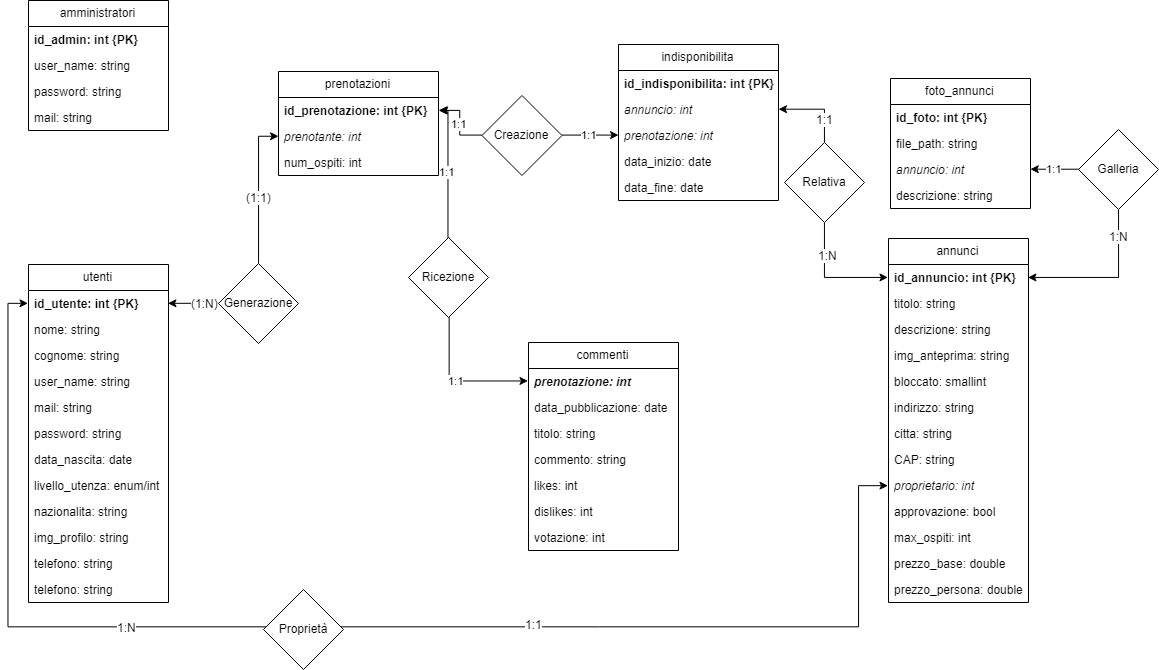
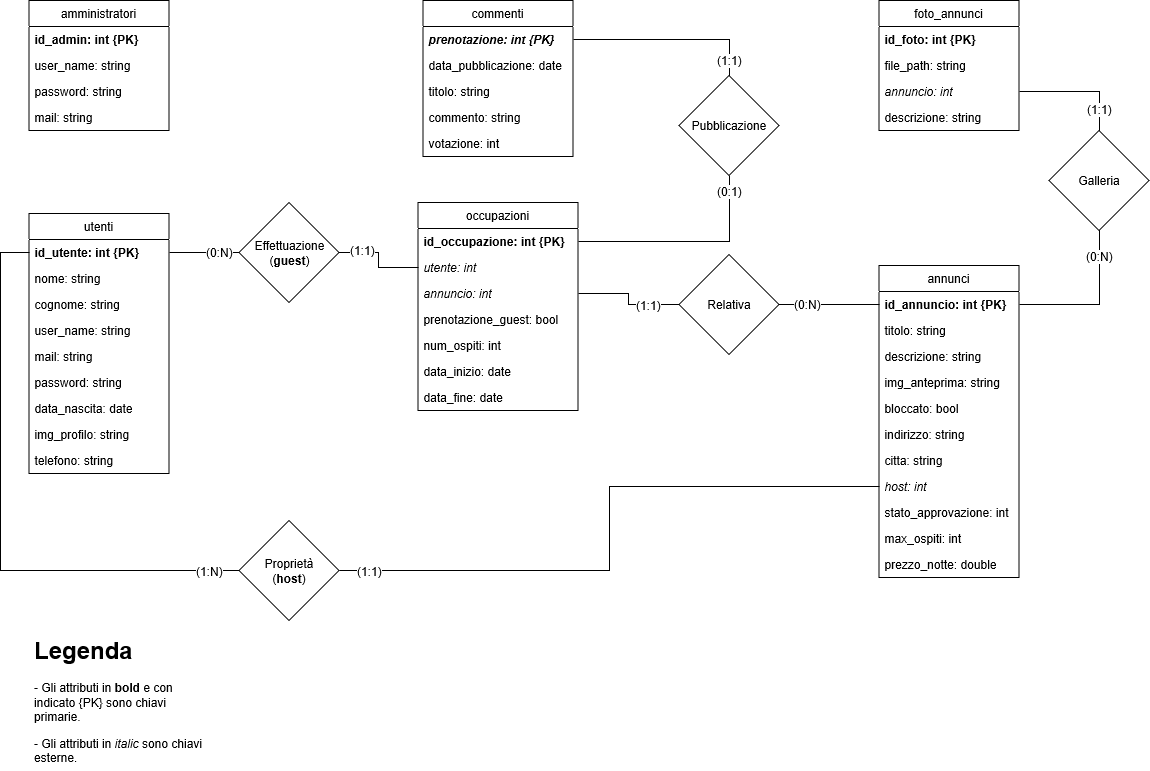
#2 #6 #12 effettuate le modifiche richieste per la semplificazione delle prenotazioni, ora occupazioni

diff --git a/analisirequisiti.md b/analisirequisiti.md
@@ -4,27 +4,25 @@ Termini utilizzati nella documentazione, nei commenti, nel codice sorgente e nel
 - **Casa**: unità immobiliare che viene affittata, attraverso la prenotazione di un annuncio. _Sinonimo_: appartamento.
 - **Utente**: soggetto che utilizza il portale. C'è una prima distinzione fra utente generico e utente loggato:
     - l'utente generico naviga nel portale, consultando ciò che gli è concesso, e non è in possesso di credenziali per l'accesso,
-    - l'utente loggato naviga nel portale in libertà (nei limiti delle operazioni che gli sono concesse, descritte successivamente), è in possesso di credenziali per l'accesso che si è autonomamente creato nel processo di registrazione al portale.
+    - l'utente loggato naviga nel portale in libertà (nei limiti delle operazioni che gli sono concesse, descritte successivamente) ed è in possesso di credenziali per l'accesso che si è autonomamente creato nel processo di registrazione al portale.
     
     L'utente loggato a sua volta viene suddiviso in due categorie: host (proprietario di una casa che rende affittabile attraverso un annuncio) e guest (persona che affitta una casa, prenotandola attraverso il relativo annuncio). Queste due categorie sono solo logiche e non fisiche, infatti vi è un solo processo di registrazione (e quindi un'unica utenza) per entrambi i ruoli.
     Di conseguenza, si parla di utente (loggato):
     - host, quando ha pubblicato almeno un annuncio,
     - guest, sempre (tutti gli utenti registrati hanno la possibilità di affittare).
 
-- **Annuncio**: un annuncio riguarda la disponibilità di una singola casa (o appartament) e ne descrive tutte le caratteristiche (indirizzo, città, numero massimo di ospiti, ecc.). Un annuncio riguarda una e una sola casa.
-- **Amministratore**: soggetto facente parte del personale che gestisce il sito. Non è considerato un utente (dal punto di vista della struttura del database è un'entità distinta). Ha compiti di gestione e moderazione all'interno del portale.
-- **Indisponibilità**: un periodo di indisponibilità definisce l'intervallo temporale in cui un annuncio è reso indisponibile, ovvero non prenotabile. Riguarda un unico annuncio e un unico periodo temporale, definito da una data di inizio e una data di fine (in cui la data di inizio precede la data di fine). In un tale periodo l'annuncio non può avere più periodi di indisponibilità sovrapposti.
-- **Commento**: recensione dell'utente sul suo soggiorno presso una casa di un preciso annuncio. Un utente può lasciare al massimo un commento sull'annuncio, a partire dal giorno successivo all'ultimo giorno del suo soggiorno (corrispondente al periodo di indisponibilità relativo alla prenotazione effettuata dall'utente).
-- **Foto**: foto relativa ad un annuncio, presente nella galleria collegata a quest'ultimo. La foto di anteprima dell'annuncio non rientra in questa categoria, in quanto parte dell'entità Annuncio.
+- **Annuncio**: un annuncio riguarda la disponibilità di una singola casa (o appartamento) e ne descrive tutte le caratteristiche (indirizzo, città, numero massimo di ospiti, ecc.). Un annuncio riguarda una e una sola casa.
+- **Amministratore**: soggetto facente parte del personale che gestisce il portale. Non è considerato un utente (dal punto di vista della struttura del database è un'entità distinta). Ha compiti di gestione e moderazione all'interno del portale.
+- **Occupazione**: un'occupazione rappresenta principalmente un periodo temporale in cui un annuncio non è disponibile, ovvero non prenotabile. Se è generata da un host allora è un periodo in cui l'annuncio non è disponibile; se è generata da un guest allora è a tutti gli effetti una prenotazione. Riguarda un unico annuncio e un unico periodo temporale, definito da una data di inizio e una data di fine (in cui la data di inizio precede la data di fine). In uno stesso periodo l'annuncio non può avere occupazioni con intervalli temporali sovrapponibili. _Sinonimo_: prenotazione (solo nell'ambito della generazione da parte di un guest).
+- **Commento**: recensione dell'utente sul suo soggiorno presso una casa offerta da un determinato annuncio. Un utente può lasciare un commento solo sull'annuncio (ed eventualmente modificarlo successivamente), a partire dal giorno successivo all'ultimo giorno del suo soggiorno (corrispondente all'intervallo temporale intercorso fra la data di inizio e di fine dell'occupazione).
+- **Foto annuncio**: foto relativa ad un annuncio, presente nella galleria collegata a quest'ultimo. La foto di anteprima dell'annuncio non rientra in questa categoria, in quanto parte dell'entità Annuncio.
+- **Effettuare una prenotazione**: indica l'azione che corrisponde a generare una occupazione di un annuncio da parte di un utente guest, fornendo tutte le informazioni richieste.
 
 ## Descrizione entità coinvolte
 **N.B.**: Per **Politiche** si intendono i vincoli di integrità referenziale, vincoli intrarelazionali e di dominio.
 ### Amministratore
 **Operazioni**
-1. Visualizza gli annunci pubblicati e modificati dagli host.
-2. Approva gli annunci pubblicati.
-3. Blocca gli annunci.
-
+1. Può modificare lo stato di approvazione di un annuncio (vedere [Annuncio](###Annuncio)).
 
 ### Utente
 #### Utente generico
@@ -58,21 +56,21 @@ Un guest può lasciare la piattaforma (ovvero richiedere la rimozione del propri
 **Operazioni (host)**
 1. Creare un annuncio (con aggiunta delle foto che faranno parte della galleria dell'annuncio).
 2. Modificare un annuncio (incluse le modifiche alle foto collegate a questo).
-3. Creare un periodo di indisponibilità relativo ad un annuncio di proprietà dell’host.
-4. Eliminare un’indisponibilità creato dall’host stesso.
-5. Bloccare un annuncio, corrispondente a una indisponibilità a tempo indeterminato, fino a quando viene sbloccato.
-6. Visualizzare le prenotazioni (presenti, passate, future) relative ai propri annunci.
+3. Creare un'occupazione relativo ad un annuncio di proprietà dell’host.
+4. Eliminare un'occupazione creato dall’host stesso.
+5. Visualizzare le prenotazioni (presenti, passate, future) relative ai propri annunci.
+6. ~~Bloccare un annuncio, corrispondente a una occupazione a tempo indeterminato, fino a quando viene sbloccato.~~
 
 **Politiche (host)**
 Un host può lasciare la piattaforma (ovvero richiedere la rimozione del proprio account). Vengono attuate le politiche che seguono.
 1. In presenza di prenotazioni correnti e/o future relative ai suoi annunci, la rimozione del proprio profilo viene negata.
-2. Se non ci sono prenotazioni future, gli annunci relativi al quel proprietario, le foto e i commenti vengono rimosse. Rimangono tutte le indisponibilità (campo annuncio settato null) e le prenotazioni per lasciare ai guest uno storico delle prenotazioni.
+2. Se non ci sono prenotazioni future, gli annunci relativi al quel proprietario, le foto e i commenti vengono rimosse. Rimangono tutte le occupazioni (perdendo il riferimento all'annuncio) per lasciare ai guest uno storico delle prenotazioni.
 
 ### Annuncio
-Ogni annuncio deve avere un host. Un annuncio può essere prenotabile solo se si trova nello stato VA, definito nelle politiche.
+Ogni annuncio deve avere un host. Un annuncio può essere prenotabile solo se si trova nello stato di approvazione VA, definito nelle politiche che seguono.
 
 **Politiche**
-Un annuncio si può assumere diversi stati:
+Un annuncio si può assumere diversi stati di approvazione:
 - **VA**: annuncio **V**isualizzato e **A**pprovato. L'amministratore del portale ha visualizzato l'annuncio, lo ha ritenuto idoneo al portale e quindi lo ha reso disponibile a ricevere prenotazioni.
 - **VNA**: annuncio **V**isualizzato e **N**on **A**pprovato. L'amministratore del portale ha visualizzato l'annuncio, ma non lo ha ritenuto idoneo al portale. Non è più di sua competenza fino a quando l'host che ha pubblicato l'annuncio non lo modificherà. A quel punto l'annuncio tornerà nello stato **NVNA**.
 - **NVNA**: annuncio **N**on **V**isualizzato e **N**on **A**pprovato.
@@ -87,29 +85,16 @@ Un annuncio può essere eliminato se e solo se non ha prenotazioni correnti e fu
 1. Non viene controllata la correttezza (ovvero l'esistenza) degli indirizzi immessi dagli utenti, ma solo il formato (esempio: viene verificato che sia un testo e non un indirizzo email).
 2. Vengono considerati solo annunci pubblicati per case in Italia (per rendere più semplice la struttura del form attraverso cui inserire un annuncio).
 
-### Indisponibilità
-Ad un periodo di indisponibilità valido può corrispondere al massimo una prenotazione, perchè:
-- se è relativo ad una prenotazione, in quel periodo la casa è occupata da un utente del sito.
-- se non è relativo ad una prenotazione, in quel periodo l'host dell'annuncio ha dichiarato che la casa o appartamento non è disponibile per prenotazioni.
-
-**Politiche**
-Ci sono due modi per eliminare un'indisponibilità:
-1. Eliminazione della prenotazione relativa ad un record di indisponibilità: eliminata di conseguenza.
-2. Eliminazione di un record di indisponibilità inserito dall’host: lo si elimina.
-
-Creazione di periodi di indisponibilità:
-1. L’host può generare un'indisponibilità (temporanea) solo se nel periodo scelto non ci sono altre indisponibilità che si accavallano (causate da prenotazioni dei guest o da altre indisponibilità impostate dall’host).
-
-### Prenotazione
-Per affittare una casa o un appartamento relativi ad un annuncio in un periodo limitato di tempo, un utente deve creare una prenotazione, a cui sarà collegato un periodo di indisponibilità (dell'annuncio scelto).
+### Occupazione
+Per affittare una casa o un appartamento relativi ad un annuncio in un periodo limitato di tempo, un utente deve creare una occupazione.
 
 **Operazioni**
-1. È possibile effettuare una prenotazione e generare un'indisponibilità entro un orizzonte temporale limitato (un numero _x_ prefissato di giorni a partire dalla data corrente) 
+1. È possibile generare un'occupazione di un annuncio entro un orizzonte temporale limitato (un numero _x_ prefissato di giorni a partire dalla data corrente) 
+2. L’host può generare un'occupazione (temporanea) per non ricevere prenotazioni per l'annuncio solo se nel periodo scelto non ci sono altre occupazioni che si accavallano (causate da occupazioni dei guest o da altre occupazioni impostate dall’host).
 
 **Semplificazioni**
-1. Non vengono simulati pagamenti per le prenotazioni e nemmeno il pagamento delle penali per le cancellazioni.
-
-Una prenotazione può sempre essere cancellata dal guest che l’ha creata.
+1. Non vengono simulati pagamenti per le occupazioni e nemmeno il pagamento delle penali per le cancellazioni.
+2. Una occupazione può sempre essere cancellata dal guest che l’ha creata.
 
 ### Commento
 

diff --git a/Database/StrutturaDB.md b/Database/StrutturaDB.md
@@ -1,25 +1,17 @@
 # Lista tabelle
-- annunci (**id_annuncio**, titolo, descrizione, img_anteprima, indirizzo, citta, cap, _proprietario_, approvazione, max_ospiti, prezzo_base, prezzo_persona)
-- utenti (**id_utente**, nome, cognome, user_name, mail, password, data_nascita, livello_utenza, nazionalita, img_profilo, telefono)
-- commenti (**_prenotazione_**, data_pubblicazione, titolo, commento, likes, dislike, votazione}
-- preferiti (**id_preferito**, _annuncio_, _utente_)
-- segnalazioni (**_prenotazione_**, titolo, motivazione, data)
-- foto_annunci (**id_foto**, file_path, descrizione, _annuncio_)
-- indisponibilita (**id_indisponibilita**, _annuncio_, data_inizio, data_fine)
-- prenotazioni (**id_prenotazione**, _prenotante_, _periodo_, num_ospiti)
-- amministratori (**id_amministratore**, user_name, password, mail)
+- **annunci** (**id_annuncio**, titolo, descrizione, img_anteprima, indirizzo, citta, _host_, stato_approvazione, max_ospiti, prezzo_notte)
+- **utenti** (**id_utente**, nome, cognome, user_name, mail, password, data_nascita, img_profilo, telefono)
+- **commenti** (**_prenotazione_**, data_pubblicazione, titolo, commento, votazione)
+- **foto_annunci** (**id_foto**, file_path, descrizione, _annuncio_)
+- **occupazioni** (**id_occupazione**, _utente_, _annuncio_, prenotazione_guest, num_ospiti, data_inizio, data_fine)
+- **amministratori** (**id_amministratore**, user_name, password, mail)
 
 # Vincoli
 ## Utenti
-- prenotazioni.prenotante e utenti.id_utente
-- annunci.proprietario e utenti.id_utente
-- preferiti.utente e utenti.id_utente
-## Prenotazioni
-- commenti.prenotazione e prenotazioni.id_prenotazione
-- segnalazioni.prenotazioni e prenotazioni.id_prenotazione
+- occupazioni.utente e utenti.id_utente
+- annunci.host e utenti.id_utente
+## Occupazioni
+- commenti.prenotazione e occupazioni.id_occupazione
 ## Annunci
-- indisponibilita.annuncio e annunci.id_annuncio
-- preferiti.annuncio e annunci.id_annuncio
+- occupazioni.annuncio e annunci.id_annuncio
 - foto_annunci.annuncio e annunci.id_annuncio
-## Indisponibilità
-- prenotazioni.periodo e indisponibilita.id_indisponibilita
